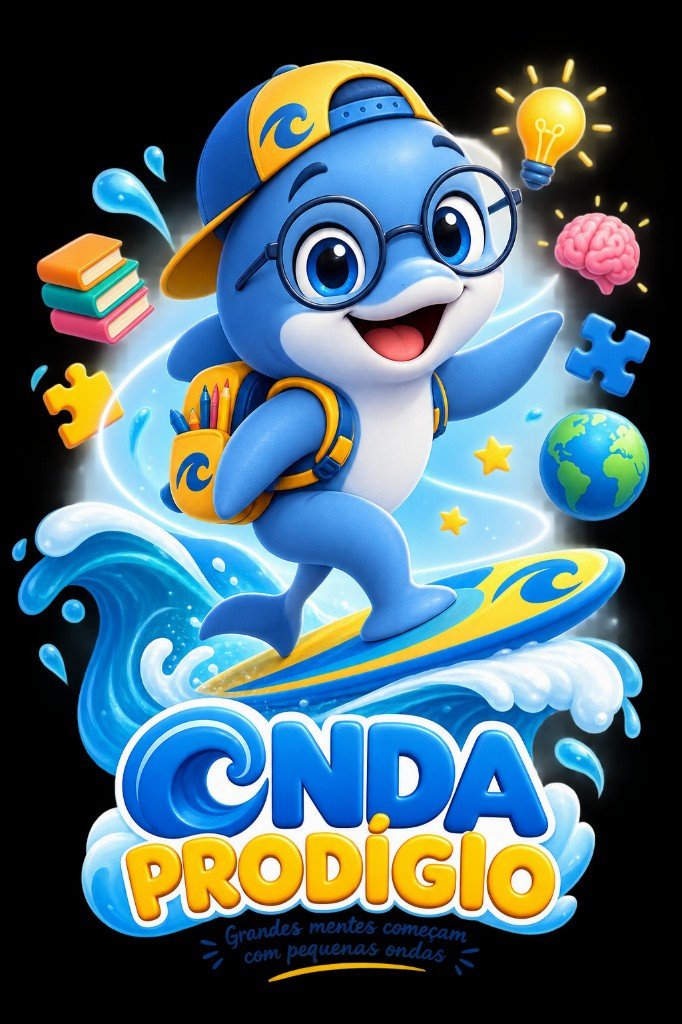
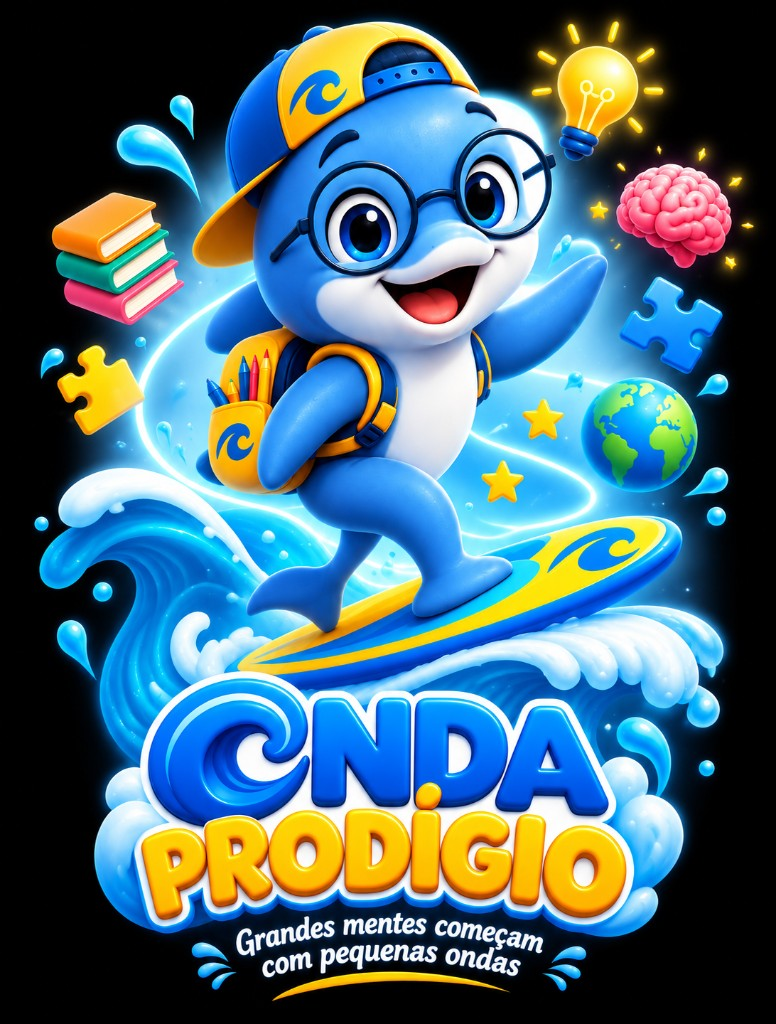
Actualizar mascote Onda Prodígio na área de membros.
Nova imagem vertical com logo completo, CSS ajustado e cache busting.

diff --git a/comunidade/index.html b/comunidade/index.html
@@ -8,7 +8,7 @@
     <link rel="preconnect" href="https://fonts.googleapis.com">
     <link rel="preconnect" href="https://fonts.gstatic.com" crossorigin>
     <link href="https://fonts.googleapis.com/css2?family=Inter:wght@400;500;600;700;800&display=swap" rel="stylesheet">
-    <link rel="stylesheet" href="/comunidade/comunidade.css?v=20260812a">
+    <link rel="stylesheet" href="/comunidade/comunidade.css?v=20260812b">
     <script>document.documentElement.setAttribute('data-theme', localStorage.getItem('comunidade-theme') === 'light' ? 'light' : 'dark');</script>
 </head>
 <body>
@@ -17,7 +17,7 @@
             <div class="comunidade-topbar__row comunidade-topbar__row--main">
                 <div class="comunidade-topbar__identity">
                     <div class="comunidade-topbar__brand">
-                        <img src="/comunidade/assets/mascot.png" alt="" class="comunidade-brand-mark" width="32" height="32">
+                        <img src="/comunidade/assets/mascot.png?v=20260812b" alt="" class="comunidade-brand-mark" width="32" height="32">
                         Onda Prodígio <span>· Comunidade</span>
                     </div>
                 </div>
@@ -62,7 +62,7 @@
                         <div class="comunidade-roadmap" id="comunidade-roadmap" aria-label="Progresso da jornada"></div>
                     </div>
                     <div class="comunidade-hero__visual" aria-hidden="true">
-                        <img src="/comunidade/assets/mascot.png" alt="" class="comunidade-hero__mascot" width="480" height="480">
+                        <img src="/comunidade/assets/mascot.png?v=20260812b" alt="" class="comunidade-hero__mascot" width="480" height="480">
                     </div>
                 </div>
             </section>

diff --git a/comunidade/comunidade.css b/comunidade/comunidade.css
@@ -1710,7 +1710,7 @@ html[data-theme="light"] .comunidade-module-card__upsell-cta {
 
 .comunidade-hero__grid {
     display: grid;
-    grid-template-columns: minmax(0, 1fr) min(240px, 36%);
+    grid-template-columns: minmax(0, 1fr) min(200px, 32%);
     gap: 0.5rem 1.25rem;
     align-items: end;
 }
@@ -1720,15 +1720,16 @@ html[data-theme="light"] .comunidade-module-card__upsell-cta {
     justify-content: center;
     align-items: flex-end;
     pointer-events: none;
-    margin: -0.35rem -0.35rem -1.15rem 0;
+    margin: -0.5rem -0.5rem -1.15rem 0;
 }
 
 .comunidade-hero__mascot {
     width: 100%;
-    max-width: 240px;
+    max-width: 200px;
     height: auto;
     display: block;
-    filter: drop-shadow(0 16px 32px rgba(0, 0, 0, 0.28));
+    border-radius: 14px;
+    filter: drop-shadow(0 14px 28px rgba(0, 0, 0, 0.35));
 }
 
 .comunidade-hero__eyebrow {
@@ -2859,15 +2860,15 @@ html[data-theme="light"] .comunidade-btn--danger:hover:not(:disabled) {
 
 .comunidade-mascot {
     display: block;
-    width: min(100%, 200px);
+    width: min(100%, 220px);
     height: auto;
-    margin: 0 auto 1rem;
-    border-radius: 14px;
-    box-shadow: 0 10px 28px rgba(0, 0, 0, 0.22);
+    margin: 0 auto 1.1rem;
+    border-radius: 16px;
+    box-shadow: 0 12px 32px rgba(0, 0, 0, 0.28);
 }
 
 .comunidade-mascot--survey {
-    max-width: 160px;
+    max-width: 180px;
     margin-bottom: 0.85rem;
 }
 

diff --git a/comunidade/login.html b/comunidade/login.html
@@ -8,7 +8,7 @@
     <link rel="preconnect" href="https://fonts.googleapis.com">
     <link rel="preconnect" href="https://fonts.gstatic.com" crossorigin>
     <link href="https://fonts.googleapis.com/css2?family=Inter:wght@400;500;600;700;800&display=swap" rel="stylesheet">
-    <link rel="stylesheet" href="/comunidade/comunidade.css?v=20260812a">
+    <link rel="stylesheet" href="/comunidade/comunidade.css?v=20260812b">
     <script>document.documentElement.setAttribute('data-theme', localStorage.getItem('comunidade-theme') === 'light' ? 'light' : 'dark');</script>
 </head>
 <body>
@@ -20,7 +20,7 @@
     </div>
     <main class="comunidade-login-page">
         <section class="comunidade-login-card" aria-labelledby="login-title">
-            <img src="/comunidade/assets/mascot.png" alt="Dr. Turbay, mascote Onda Prodígio" class="comunidade-mascot" width="400" height="400">
+            <img src="/comunidade/assets/mascot.png?v=20260812b" alt="Dr. Turbay, mascote Onda Prodígio" class="comunidade-mascot" width="400" height="400">
             <span class="comunidade-badge">Área de membros</span>
             <h1 id="login-title">Comunidade Onda Prodígio</h1>
             <p>Usa o email da compra e a password provisória que recebeste por email. Verifica também a pasta <strong>Spam</strong> ou <strong>Promoções</strong>.</p>

diff --git a/comunidade/redefinir-password.html b/comunidade/redefinir-password.html
@@ -8,7 +8,7 @@
     <link rel="preconnect" href="https://fonts.googleapis.com">
     <link rel="preconnect" href="https://fonts.gstatic.com" crossorigin>
     <link href="https://fonts.googleapis.com/css2?family=Inter:wght@400;500;600;700;800&display=swap" rel="stylesheet">
-    <link rel="stylesheet" href="/comunidade/comunidade.css?v=20260812a">
+    <link rel="stylesheet" href="/comunidade/comunidade.css?v=20260812b">
     <script>document.documentElement.setAttribute('data-theme', localStorage.getItem('comunidade-theme') === 'light' ? 'light' : 'dark');</script>
 </head>
 <body>
@@ -20,7 +20,7 @@
     </div>
     <main class="comunidade-login-page">
         <section class="comunidade-login-card" aria-labelledby="reset-title">
-            <img src="/comunidade/assets/mascot.png" alt="Dr. Turbay, mascote Onda Prodígio" class="comunidade-mascot" width="400" height="400">
+            <img src="/comunidade/assets/mascot.png?v=20260812b" alt="Dr. Turbay, mascote Onda Prodígio" class="comunidade-mascot" width="400" height="400">
             <span class="comunidade-badge">Área de membros</span>
             <h1 id="reset-title">Redefinir password</h1>
             <p id="reset-subtitle">Escolhe uma nova password para entrares na comunidade.</p>

diff --git a/comunidade/respostaquestionario.html b/comunidade/respostaquestionario.html
@@ -8,7 +8,7 @@
     <link rel="preconnect" href="https://fonts.googleapis.com">
     <link rel="preconnect" href="https://fonts.gstatic.com" crossorigin>
     <link href="https://fonts.googleapis.com/css2?family=Inter:wght@400;500;600;700;800&display=swap" rel="stylesheet">
-    <link rel="stylesheet" href="/comunidade/comunidade.css?v=20260812a">
+    <link rel="stylesheet" href="/comunidade/comunidade.css?v=20260812b">
     <script>document.documentElement.setAttribute('data-theme', localStorage.getItem('comunidade-theme') === 'light' ? 'light' : 'dark');</script>
 </head>
 <body>
@@ -17,7 +17,7 @@
             <div class="comunidade-topbar__row comunidade-topbar__row--main">
                 <div class="comunidade-topbar__identity">
                     <div class="comunidade-topbar__brand">
-                        <img src="/comunidade/assets/mascot.png" alt="" class="comunidade-brand-mark" width="32" height="32">
+                        <img src="/comunidade/assets/mascot.png?v=20260812b" alt="" class="comunidade-brand-mark" width="32" height="32">
                         Onda Prodígio <span>· Admin</span>
                     </div>
                     <div class="comunidade-topbar__user" id="topbar-user"></div>

diff --git a/comunidade/produto.html b/comunidade/produto.html
@@ -8,7 +8,7 @@
     <link rel="preconnect" href="https://fonts.googleapis.com">
     <link rel="preconnect" href="https://fonts.gstatic.com" crossorigin>
     <link href="https://fonts.googleapis.com/css2?family=Inter:wght@400;500;600;700;800&display=swap" rel="stylesheet">
-    <link rel="stylesheet" href="/comunidade/comunidade.css?v=20260812a">
+    <link rel="stylesheet" href="/comunidade/comunidade.css?v=20260812b">
     <script>document.documentElement.setAttribute('data-theme', localStorage.getItem('comunidade-theme') === 'light' ? 'light' : 'dark');</script>
 </head>
 <body>
@@ -20,7 +20,7 @@
                 </button>
                 <div class="comunidade-topbar__identity">
                     <div class="comunidade-topbar__brand">
-                        <img src="/comunidade/assets/mascot.png" alt="" class="comunidade-brand-mark" width="32" height="32">
+                        <img src="/comunidade/assets/mascot.png?v=20260812b" alt="" class="comunidade-brand-mark" width="32" height="32">
                         Onda Prodígio <span>· Comunidade</span>
                     </div>
                     <div class="comunidade-topbar__user" id="topbar-user"></div>

diff --git a/comunidade/perfil.html b/comunidade/perfil.html
@@ -8,7 +8,7 @@
     <link rel="preconnect" href="https://fonts.googleapis.com">
     <link rel="preconnect" href="https://fonts.gstatic.com" crossorigin>
     <link href="https://fonts.googleapis.com/css2?family=Inter:wght@400;500;600;700;800&display=swap" rel="stylesheet">
-    <link rel="stylesheet" href="/comunidade/comunidade.css?v=20260812a">
+    <link rel="stylesheet" href="/comunidade/comunidade.css?v=20260812b">
     <script>document.documentElement.setAttribute('data-theme', localStorage.getItem('comunidade-theme') === 'light' ? 'light' : 'dark');</script>
 </head>
 <body>
@@ -17,7 +17,7 @@
             <div class="comunidade-topbar__row comunidade-topbar__row--main">
                 <div class="comunidade-topbar__identity">
                     <div class="comunidade-topbar__brand">
-                        <img src="/comunidade/assets/mascot.png" alt="" class="comunidade-brand-mark" width="32" height="32">
+                        <img src="/comunidade/assets/mascot.png?v=20260812b" alt="" class="comunidade-brand-mark" width="32" height="32">
                         Onda Prodígio <span>· Perfil</span>
                     </div>
                 </div>

diff --git a/comunidade/welcome-survey.js b/comunidade/welcome-survey.js
@@ -242,7 +242,7 @@
             '<div class="comunidade-survey">' +
                 previewBanner +
                 '<div class="comunidade-survey__hero">' +
-                    '<img src="/comunidade/assets/mascot.png" alt="Dr. Turbay, mascote Onda Prodígio" class="comunidade-mascot comunidade-mascot--survey" width="320" height="320">' +
+                    '<img src="/comunidade/assets/mascot.png?v=20260812b" alt="Dr. Turbay, mascote Onda Prodígio" class="comunidade-mascot comunidade-mascot--survey" width="320" height="480">' +
                     '<h2 class="comunidade-survey__title">Questionário de Boas-vindas: Onda Prodígio</h2>' +
                     '<p class="comunidade-survey__intro">Damos-te as boas-vindas à família Onda Prodígio!</p>' +
                     '<p class="comunidade-survey__intro">Um grande cumprimento da professora Angela Campos e do Dr. Turbay. Queremos agradecer-te de coração a confiança que depositaste em nós para acompanhar o futuro do teu filho.</p>' +
